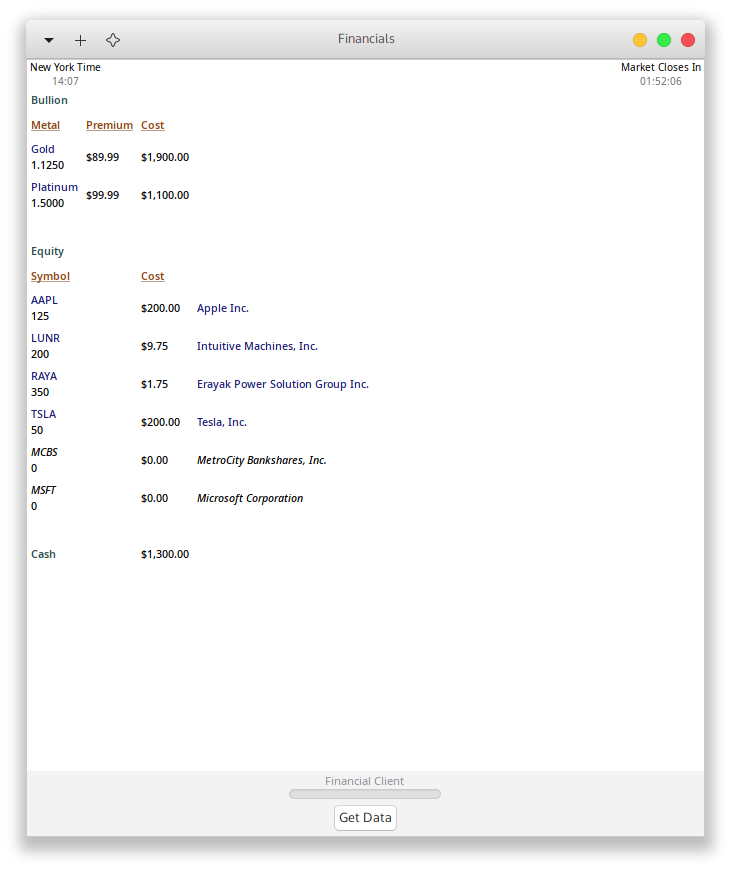
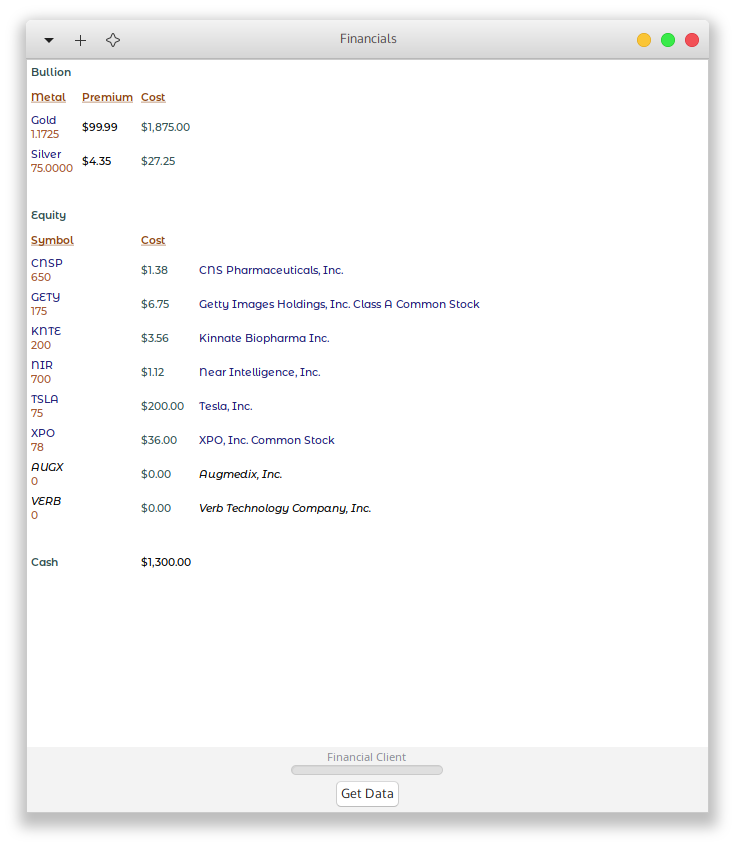
0.3.1, Adjusted the colors, easier to read.

diff --git a/src/class/class_equity.c b/src/class/class_equity.c
@@ -61,17 +61,17 @@ static void convert_equity_to_strings(stock *S, guint8 digits_right) {
                             BLACK);
 
   DoubleToFormattedStrPango(&S->opening_stock_mrkd_ch, S->opening_stock_f,
-                            digits_right, MON_STR, BLACK);
+                            digits_right, MON_STR, GREY);
 
   DoubleToFormattedStrPango(&S->cost_mrkd_ch, S->cost_basis_f, digits_right,
-                            MON_STR, BLACK);
+                            MON_STR, GREY);
 
   RangeStrPango(&S->range_mrkd_ch, S->low_stock_f, S->high_stock_f,
                 digits_right);
 
   DoubleToFormattedStrPango(&S->prev_closing_stock_mrkd_ch,
                             S->prev_closing_stock_f, digits_right, MON_STR,
-                            BLACK);
+                            GREY);
 
   ChangeStrPango(&S->change_share_stock_mrkd_ch, S->change_share_f,
                  S->change_percent_f, digits_right);
@@ -298,6 +298,8 @@ static void AddStock(const gchar *symbol, const gchar *shares,
     break;
   }
   F->size++;
+  /* We don't sort here because we might want to alter the new stock object,
+   * which will be at the end of the unsorted array. */
   g_mutex_unlock(&mutexes[CLASS_MEMBER_MUTEX]);
 }
 
@@ -314,14 +316,21 @@ static void RemoveStock(const gchar *s)
 
   guint8 j, i = 0;
   while (i < F->size) {
+    /* If we find a matching stock object. */
     if (g_strcmp0(s, F->Equity[i]->symbol_stock_ch) == 0) {
+      /* Remove the object. */
       class_destruct_equity(F->Equity[i]);
       j = i;
+      /* Shift the stock object array to the left by one. */
       while (j < F->size - 1) {
         F->Equity[j] = F->Equity[j + 1];
         j++;
       }
-      /* g_realloc will free memory if assigned a smaller new value. */
+      /* Resize the array, g_realloc will free memory if assigned a smaller new
+       * value. This will leave us with an extra element (if we removed the last
+       * element, leaving a zero size array, g_realloc will destroy the array,
+       * preventing us from adding a future element, instead we leave an extra
+       * empty array element). */
       tmp = g_realloc(F->Equity, (F->size * sizeof(stock *)));
       if (tmp)
         F->Equity = tmp;

diff --git a/src/class/class_bullion.c b/src/class/class_bullion.c
@@ -55,24 +55,21 @@ static void convert_bullion_to_strings(bullion *B, gchar *metal_ch,
   /* Basic metal data */
   SymbolStrPango(&B->metal_mrkd_ch, metal_ch, B->ounce_f, 4, BLUE);
 
-  DoubleToFormattedStrPango(&B->premium_mrkd_ch, B->premium_f, digits_right,
-                            MON_STR, BLACK);
-
-  DoubleToFormattedStrPango(&B->prev_closing_metal_mrkd_ch,
-                            B->prev_closing_metal_f, digits_right, MON_STR,
-                            BLACK);
-
-  DoubleToFormattedStrPango(&B->cost_mrkd_ch, B->cost_basis_f, digits_right,
-                            MON_STR, BLACK);
-
-  RangeStrPango(&B->range_mrkd_ch, B->low_metal_f, B->high_metal_f,
-                digits_right);
-
   DoubleToFormattedStrPango(&B->spot_price_mrkd_ch, B->spot_price_f,
                             digits_right, MON_STR, BLACK);
 
   DoubleToFormattedStrPango(&B->premium_mrkd_ch, B->premium_f, digits_right,
                             MON_STR, BLACK);
+
+  DoubleToFormattedStrPango(&B->cost_mrkd_ch, B->cost_basis_f, digits_right,
+                            MON_STR, GREY);
+
+  RangeStrPango(&B->range_mrkd_ch, B->low_metal_f, B->high_metal_f,
+                digits_right);
+
+  DoubleToFormattedStrPango(&B->prev_closing_metal_mrkd_ch,
+                            B->prev_closing_metal_f, digits_right, MON_STR,
+                            GREY);
 
   /* The change in spot price per ounce. */
   ChangeStrPango(&B->change_ounce_mrkd_ch, B->change_ounce_f,
@@ -82,7 +79,7 @@ static void convert_bullion_to_strings(bullion *B, gchar *metal_ch,
   TotalStrPango(&B->port_value_mrkd_ch, B->port_value_f, B->change_value_f,
                 digits_right);
 
-  /* The raw change in bullion as a percentage. */
+  /* The raw change in bullion as a percentage (not pango). */
   DoubleToFormattedStr(&B->change_percent_raw_ch, B->change_percent_raw_f, 2,
                        PER_STR);
 

diff --git a/src/workfuncs/pango_formatting.c b/src/workfuncs/pango_formatting.c
@@ -180,6 +180,11 @@ void StringToStrPango(gchar **dst, const gchar *src, const guint color)
     wght = wght_attr("Medium");
     create_markup(dst, format_four, font, fg, wght, src);
     break;
+  case SIENNA:
+    fg = fg_attr("Sienna");
+    wght = wght_attr("Medium");
+    create_markup(dst, format_four, font, fg, wght, src);
+    break;
   case BLACK_ITALIC:
     fg = fg_attr("Black");
     wght = wght_attr("Medium");
@@ -208,7 +213,7 @@ void StringToStrPango(gchar **dst, const gchar *src, const guint color)
     /* This is a special conversion, make sure the string can be converted to a
      * double */
     StringToMonStr(&tmp, src, 2);
-    fg = fg_attr("Black");
+    fg = fg_attr("DarkSlateGrey");
     wght = wght_attr("Medium");
     create_markup(dst, format_four, font, fg, wght, tmp);
     break;
@@ -281,7 +286,7 @@ void RangeStrPango(gchar **dest, const double low_f, const double high_f,
   range_ch = SnPrint("%s - %s", low_ch, high_ch);
 
   /* Create the marked up string. */
-  StringToStrPango(dest, range_ch, BLACK);
+  StringToStrPango(dest, range_ch, GREY);
 
   g_free(low_ch);
   g_free(high_ch);
@@ -367,7 +372,7 @@ void SymbolStrPango(gchar **dest, const gchar *symbol_ch,
   g_free(tmp_ch);
 
   /* Create the second marked string. */
-  StringToStrPango(&quantity_mrkd_ch, quantity_ch, BLACK);
+  StringToStrPango(&quantity_mrkd_ch, quantity_ch, SIENNA);
 
   /* Find allocation size */
   gsize len = g_snprintf(NULL, 0, "%s%s", symbol_mrkd_ch, quantity_mrkd_ch) + 1;

diff --git a/src/gui/gui_history.c b/src/gui/gui_history.c
@@ -230,9 +230,9 @@ static gboolean history_rsi_calculate(gchar *line, history_strings *strings,
   }
 
   StringToStrPango(&strings->date_ch,
-                   token_arr[0] ? token_arr[0] : "0000-00-00", CHOCOLATE);
+                   token_arr[0] ? token_arr[0] : "0000-00-00", SIENNA);
   DoubleToFormattedStrPango(&strings->prev_closing_ch, prev_price_f, 2, MON_STR,
-                            BLACK);
+                            GREY);
   DoubleToFormattedStrPango(&strings->price_ch, cur_price_f, 2, MON_STR, BLACK);
   StringToStrPango(&strings->opening_ch, token_arr[1] ? token_arr[1] : "0",
                    STR_TO_MON_STR);
@@ -254,7 +254,7 @@ static gboolean history_rsi_calculate(gchar *line, history_strings *strings,
   volume_long =
       (gulong)g_ascii_strtoll(token_arr[6] ? token_arr[6] : "0", NULL, 10);
   DoubleToFormattedStrPango(&strings->volume_ch, (double)volume_long, 0,
-                            NUM_STR, BLACK);
+                            NUM_STR, GREY);
 
   if (rsi_f >= 70.0f)
     StringToStrPango(&strings->indicator_ch, "Overbought", RED);

diff --git a/src/include/macros.h b/src/include/macros.h
@@ -35,7 +35,7 @@ POSSIBILITY OF SUCH DAMAGE.
 
 /* The application version */
 #ifndef VERSION_STRING
-#define VERSION_STRING "0.3.0"
+#define VERSION_STRING "0.3.1"
 #endif
 
 /* To suppress unused argument warnings. */

diff --git a/src/include/workfuncs.h b/src/include/workfuncs.h
@@ -47,6 +47,7 @@ enum {
   CYAN,
   ORANGE,
   CHOCOLATE,
+  SIENNA,
   HEADING_ASST_TYPE_FORMAT,
   HEADING_UNLN_FORMAT,
   STR_TO_MON_STR,
